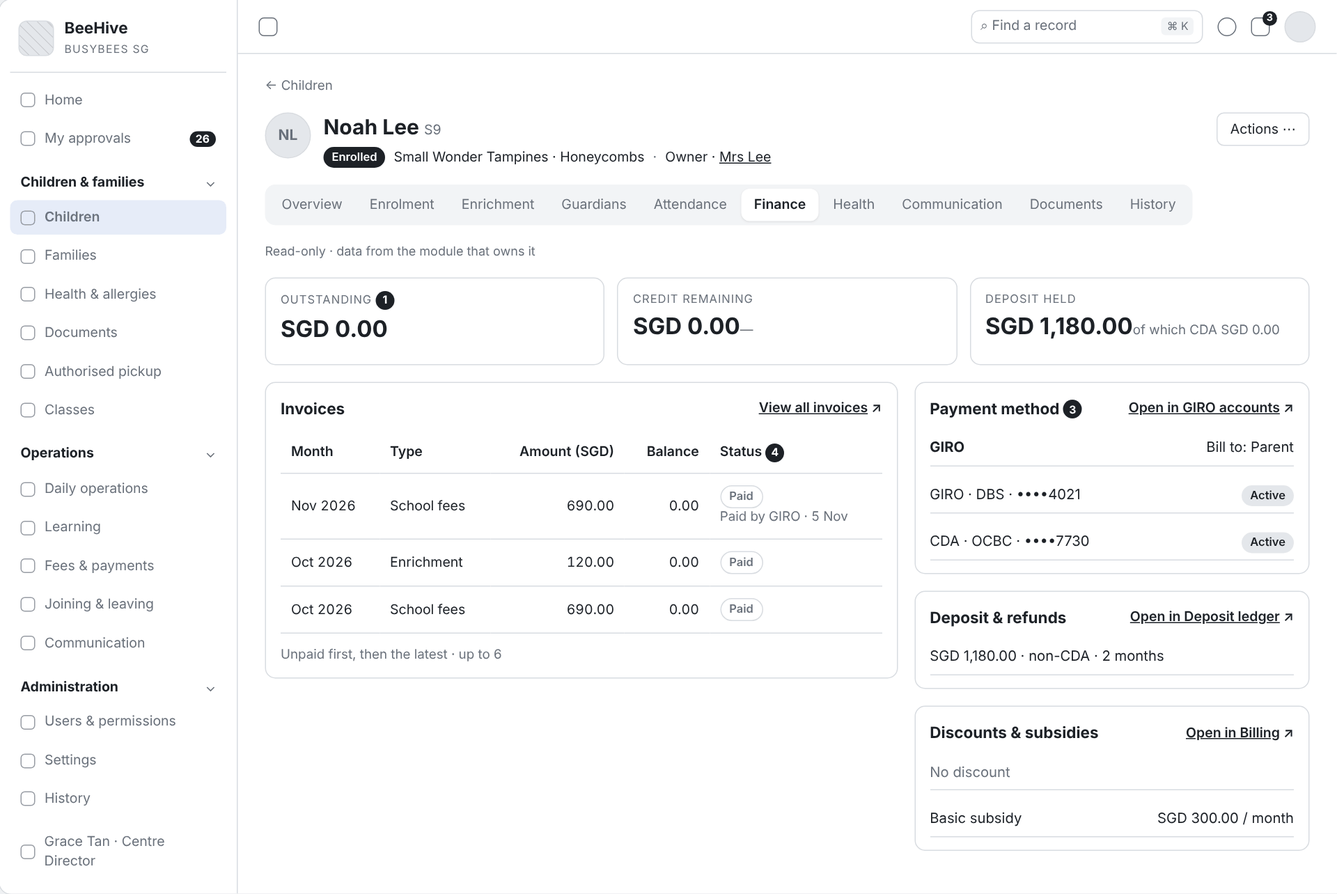
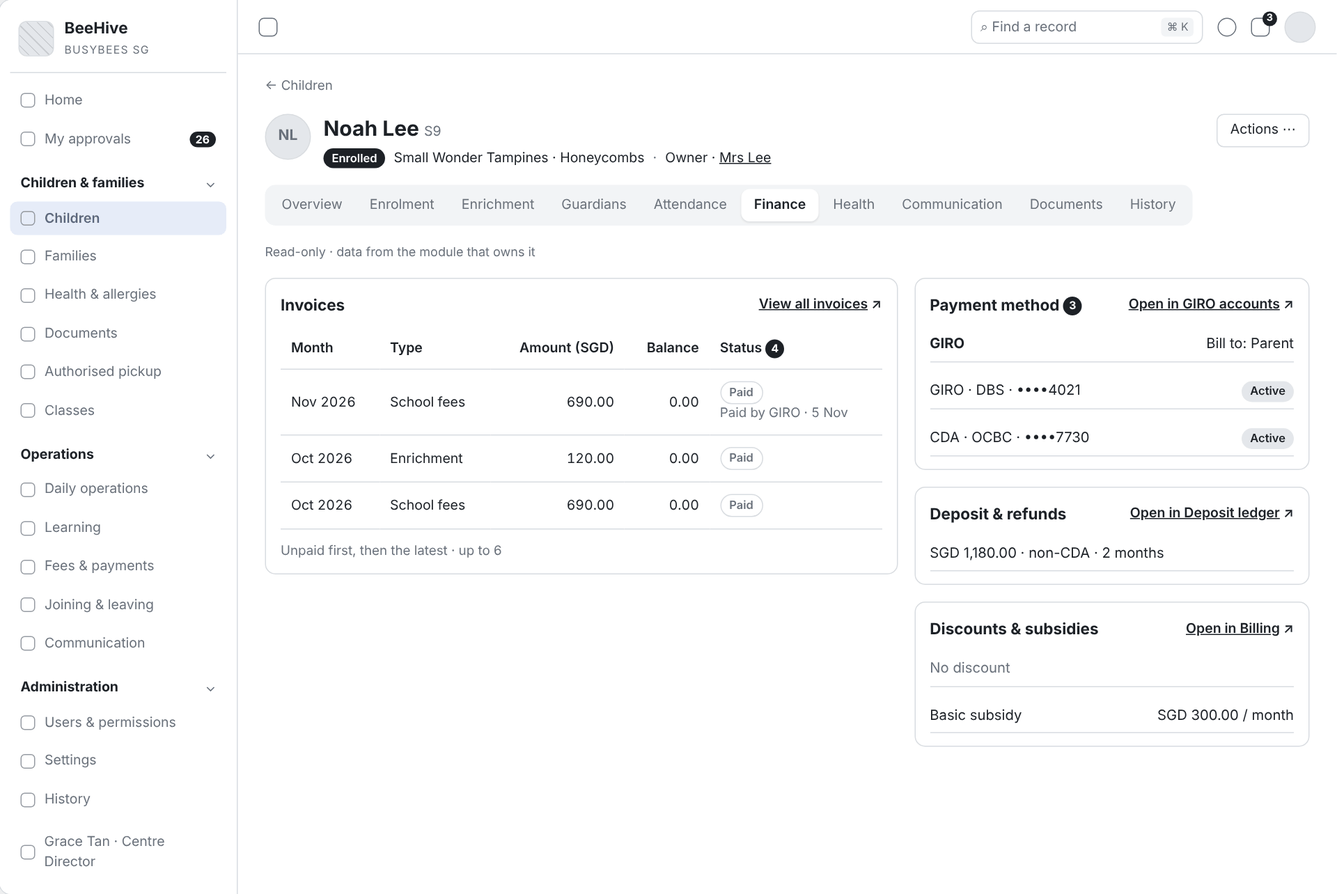
docs(bba): backlog BL-FIN-01/02 (summary, needs attention) for tab Finance; draft US-004 v0.3 without them
Claude-Session: https://claude.ai/code/session_01FUUTUG18Pmoj9k7Yu1zC77

diff --git a/projects/bba/Diagram/Wireframe/_finance-draft-sprint4.template.html b/projects/bba/Diagram/Wireframe/_finance-draft-sprint4.template.html
@@ -287,13 +287,13 @@ function finDraft(state) {
       (cda ? line("Refund SGD 500.00 · to <b>CDA</b> <span class=\"anno\">6</span>", '<span class="badge">Pending approval</span>') : ""), "Open in Deposit ledger", "");
   const disc = my ? card("Discounts", muted("No discount."), "", "")
     : card("Discounts & subsidies", (ok || cda ? line(muted("No discount"), "") : line("Staff child discount · 50%", "until —")) + line("Basic subsidy", `${cur} 300.00 / month`), "Open in Billing", "");
-  return header("Finance", c) + summary + att + `<div class="split" style="grid-template-columns:minmax(0,1.6fr) minmax(0,1fr);gap:16px;align-items:start"><div style="display:grid;gap:16px">${invoices}</div><div style="display:grid;gap:16px">${pay}${dep}${disc}</div></div>`;
+  return header("Finance", c) + `<div class="split" style="grid-template-columns:minmax(0,1.6fr) minmax(0,1fr);gap:16px;align-items:start"><div style="display:grid;gap:16px">${invoices}</div><div style="display:grid;gap:16px">${pay}${dep}${disc}</div></div>`;
 }
 
 const SCREENS = [
   { id: "scr-04", code: "SCR-04", name: "Tab Finance", slug: "tab-finance-draft", tickets: "US-004 (bản nháp 0.2) — tổng quan tài chính của một trẻ, chỉ đọc",
-    states: [["default", "Có việc cần chú ý", () => finDraft("default")], ["all-good", "Không có việc cần chú ý", () => finDraft("all-good")], ["cda-refund", "Hoàn cọc CDA", () => finDraft("cda-refund")], ["malaysia", "Malaysia", () => finDraft("malaysia")]],
-    notes: [["3 số tóm tắt: còn nợ (không tính Draft), credit còn lại và cọc đang giữ tách phần CDA.", "FR-023 · BR-FIN-TAB-002"], ["Cần chú ý: chỉ hiện khi có việc; mỗi việc một dòng kèm liên kết sang Billing.", "FR-024"], ["Payment method: một dòng mỗi tài khoản, chỉ 4 số cuối; không có DDA hay nút sửa.", "FR-025 · BR-FIN-TAB-004 đến 006"], ["Tối đa 6 hoá đơn: chưa trả trước, rồi mới nhất; trạng thái kèm GIRO; không mở chi tiết từng dòng.", "FR-026 · BR-FIN-TAB-007"], ["Một dòng giải thích vì sao hoá đơn tháng này khác tháng trước.", "FR-027 · BR-FIN-TAB-012"], ["Hoàn tiền chỉ hiện khi đang xử lý hoặc thất bại; tiền CDA hoàn về CDA.", "FR-028 · BR-FIN-TAB-011"]] }
+    states: [["default", "Singapore · còn nợ, GIRO thất bại", () => finDraft("default")], ["all-good", "Singapore · đã trả hết", () => finDraft("all-good")], ["cda-refund", "Hoàn cọc CDA", () => finDraft("cda-refund")], ["malaysia", "Malaysia", () => finDraft("malaysia")]],
+    notes: [["(Tóm tắt — backlog BL-FIN-01)", "—"], ["(Cần chú ý — backlog BL-FIN-02)", "—"], ["Payment method: một dòng mỗi tài khoản, chỉ 4 số cuối; không có DDA hay nút sửa.", "FR-025 · BR-FIN-TAB-004 đến 006"], ["Tối đa 6 hoá đơn: chưa trả trước, rồi mới nhất; trạng thái kèm GIRO; không mở chi tiết từng dòng.", "FR-026 · BR-FIN-TAB-007"], ["Một dòng giải thích vì sao hoá đơn tháng này khác tháng trước.", "FR-027 · BR-FIN-TAB-012"], ["Hoàn tiền chỉ hiện khi đang xử lý hoặc thất bại; tiền CDA hoàn về CDA.", "FR-028 · BR-FIN-TAB-011"]] }
 ];
 
 let current = { screen: "scr-04", state: "default" };

diff --git a/projects/bba/Diagram/Wireframe/finance-draft-sprint4.html b/projects/bba/Diagram/Wireframe/finance-draft-sprint4.html
@@ -287,13 +287,13 @@ function finDraft(state) {
       (cda ? line("Refund SGD 500.00 · to <b>CDA</b> <span class=\"anno\">6</span>", '<span class="badge">Pending approval</span>') : ""), "Open in Deposit ledger", "");
   const disc = my ? card("Discounts", muted("No discount."), "", "")
     : card("Discounts & subsidies", (ok || cda ? line(muted("No discount"), "") : line("Staff child discount · 50%", "until —")) + line("Basic subsidy", `${cur} 300.00 / month`), "Open in Billing", "");
-  return header("Finance", c) + summary + att + `<div class="split" style="grid-template-columns:minmax(0,1.6fr) minmax(0,1fr);gap:16px;align-items:start"><div style="display:grid;gap:16px">${invoices}</div><div style="display:grid;gap:16px">${pay}${dep}${disc}</div></div>`;
+  return header("Finance", c) + `<div class="split" style="grid-template-columns:minmax(0,1.6fr) minmax(0,1fr);gap:16px;align-items:start"><div style="display:grid;gap:16px">${invoices}</div><div style="display:grid;gap:16px">${pay}${dep}${disc}</div></div>`;
 }
 
 const SCREENS = [
   { id: "scr-04", code: "SCR-04", name: "Tab Finance", slug: "tab-finance-draft", tickets: "US-004 (bản nháp 0.2) — tổng quan tài chính của một trẻ, chỉ đọc",
-    states: [["default", "Có việc cần chú ý", () => finDraft("default")], ["all-good", "Không có việc cần chú ý", () => finDraft("all-good")], ["cda-refund", "Hoàn cọc CDA", () => finDraft("cda-refund")], ["malaysia", "Malaysia", () => finDraft("malaysia")]],
-    notes: [["3 số tóm tắt: còn nợ (không tính Draft), credit còn lại và cọc đang giữ tách phần CDA.", "FR-023 · BR-FIN-TAB-002"], ["Cần chú ý: chỉ hiện khi có việc; mỗi việc một dòng kèm liên kết sang Billing.", "FR-024"], ["Payment method: một dòng mỗi tài khoản, chỉ 4 số cuối; không có DDA hay nút sửa.", "FR-025 · BR-FIN-TAB-004 đến 006"], ["Tối đa 6 hoá đơn: chưa trả trước, rồi mới nhất; trạng thái kèm GIRO; không mở chi tiết từng dòng.", "FR-026 · BR-FIN-TAB-007"], ["Một dòng giải thích vì sao hoá đơn tháng này khác tháng trước.", "FR-027 · BR-FIN-TAB-012"], ["Hoàn tiền chỉ hiện khi đang xử lý hoặc thất bại; tiền CDA hoàn về CDA.", "FR-028 · BR-FIN-TAB-011"]] }
+    states: [["default", "Singapore · còn nợ, GIRO thất bại", () => finDraft("default")], ["all-good", "Singapore · đã trả hết", () => finDraft("all-good")], ["cda-refund", "Hoàn cọc CDA", () => finDraft("cda-refund")], ["malaysia", "Malaysia", () => finDraft("malaysia")]],
+    notes: [["(Tóm tắt — backlog BL-FIN-01)", "—"], ["(Cần chú ý — backlog BL-FIN-02)", "—"], ["Payment method: một dòng mỗi tài khoản, chỉ 4 số cuối; không có DDA hay nút sửa.", "FR-025 · BR-FIN-TAB-004 đến 006"], ["Tối đa 6 hoá đơn: chưa trả trước, rồi mới nhất; trạng thái kèm GIRO; không mở chi tiết từng dòng.", "FR-026 · BR-FIN-TAB-007"], ["Một dòng giải thích vì sao hoá đơn tháng này khác tháng trước.", "FR-027 · BR-FIN-TAB-012"], ["Hoàn tiền chỉ hiện khi đang xử lý hoặc thất bại; tiền CDA hoàn về CDA.", "FR-028 · BR-FIN-TAB-011"]] }
 ];
 
 let current = { screen: "scr-04", state: "default" };

diff --git a/projects/bba/Document/FSD/Sprint 4/BBA-67_US-004_Tab_Finance_Draft_VI.md b/projects/bba/Document/FSD/Sprint 4/BBA-67_US-004_Tab_Finance_Draft_VI.md
@@ -9,7 +9,7 @@
 | Mã WBS | 3.1.1.02 |
 | Mã tài liệu | FRD-3.1_Child_Record_Read_Tabs — bản nháp US-004 |
 | Sprint | 4 |
-| Phiên bản | 0.2 (nháp) |
+| Phiên bản | 0.3 (nháp) |
 | Trạng thái | BẢN NHÁP ĐỂ RÀ SOÁT |
 | Ngày | 11/11/2026 |
 | Người soạn | Business Analysis |
@@ -21,35 +21,23 @@
 | Phiên bản | Ngày | Tác giả | Tóm tắt thay đổi | Duyệt |
 |---|---|---|---|---|
 | 0.1 (nháp) | 11/11/2026 | Business Analysis | Bản nháp đầu theo SRS Fees & Payments, Children & Families, Parents App: 9 khối chi tiết. | HaiNguyen |
-| 0.2 (nháp) | 11/11/2026 | Business Analysis | Thu gọn thành màn tổng quan: 3 số tóm tắt, mục "Cần chú ý", payment method một dòng mỗi tài khoản, tối đa 6 hoá đơn gần nhất, cọc và hoàn tiền đang xử lý, giảm giá và trợ cấp. Bỏ khỏi tab: chi tiết từng dòng hoá đơn, bảng biên lai, bảng credit note, sổ biến động cọc, DDA reference, cách đăng ký GIRO — xem ở Billing qua liên kết. | HaiNguyen |
+| 0.2 (nháp) | 11/11/2026 | Business Analysis | Thu gọn thành màn tổng quan. | HaiNguyen |
+| 0.3 (nháp) | 11/11/2026 | Business Analysis | Tách khối Tóm tắt và khối Cần chú ý sang backlog (BL-FIN-01, BL-FIN-02), làm sau. Tab còn 4 khối: Invoices, Payment method, Deposit & refunds, Discounts & subsidies. | HaiNguyen |
 
-**Mức sẵn sàng:** Đã đặc tả màn tổng quan 6 khối, quyền xem theo vai trò, 15 quy tắc, 15 tiêu chí nghiệm thu. 7 điểm chưa chốt ghi thành giả định và câu hỏi ở mục 6.
+**Mức sẵn sàng:** Đã đặc tả màn tổng quan 4 khối, quyền xem theo vai trò, 11 quy tắc, 12 tiêu chí nghiệm thu. 7 điểm chưa chốt ghi thành giả định và câu hỏi ở mục 6.
 
 ## 2. Mục đích và phạm vi
 
 | Điểm chính | Căn cứ |
 |---|---|
-| Tab Finance là **bảng tổng quan** tài chính của một trẻ: nhìn vào là biết trẻ còn nợ bao nhiêu, có gì cần chú ý, trả bằng gì. Không phải nơi xem sổ sách chi tiết. | Định hướng của BA phụ trách |
-| Trả lời nhanh 4 câu phụ huynh hay hỏi: "con còn nợ bao nhiêu", "sao tháng này hoá đơn cao", "tiền cọc còn bao nhiêu", "sao chưa trừ GIRO". | Định hướng của BA phụ trách |
-| Chi tiết (từng dòng hoá đơn, biên lai, credit note, sổ cọc, tài khoản GIRO đầy đủ) xem ở màn Billing của Fees & Payments; mỗi khối có liên kết "Open in Billing". | SRS Fees & Payments §4 mục 3.2, 3.4, 4.1, 4.6, 5.1, 5.2 (tr.7–10) |
+| Tab Finance là **bảng tổng quan** tài chính của một trẻ, khác các màn Billing (xem theo Centre, tháng, đợt). Nhìn vào là biết hoá đơn gần đây, trẻ trả bằng gì, cọc còn bao nhiêu, đang được giảm giá và trợ cấp gì. | SRS Fees & Payments §4 mục 3.1, 3.2 (tr.7); định hướng của BA phụ trách |
+| Giúp Centre trả lời nhanh phụ huynh: "sao tháng này hoá đơn cao", "tiền cọc còn bao nhiêu", "sao chưa trừ GIRO". | Định hướng của BA phụ trách |
+| Chi tiết (từng dòng hoá đơn, biên lai, credit note, sổ cọc, tài khoản GIRO đầy đủ) xem ở màn Billing của Fees & Payments; mỗi khối có liên kết sang màn tương ứng. | SRS Fees & Payments §4 mục 3.2, 4.1, 5.1, 5.2 (tr.7–10) |
 | Tab **chỉ đọc**. Tạo, sửa hoá đơn, credit note, hoàn tiền, tài khoản GIRO làm hoặc duyệt trong Billing bởi Finance. | BR-FEE-007, 008 (tr.12); BR-FEE-027, 041 (tr.13–14) |
-| Các con số dùng cùng cách tính với Parents App (số còn nợ, credit còn lại tách CDA, trạng thái GIRO) để Centre trả lời khớp với những gì phụ huynh thấy. | SRS Parents App §4 mục 7.1, 7.4 (tr.13–14) |
 
-**Ngoài phạm vi tab:** chi tiết từng dòng hoá đơn, danh sách biên lai, danh sách credit note, sổ biến động cọc, DDA reference và cách đăng ký GIRO, lịch sử nhắc nợ đầy đủ, tải hoặc in PDF, mọi thao tác.
+**Ngoài phạm vi tab:** khối Tóm tắt và khối Cần chú ý (backlog BL-FIN-01, BL-FIN-02); chi tiết từng dòng hoá đơn; danh sách biên lai; danh sách credit note; sổ biến động cọc; DDA reference và cách đăng ký GIRO; tải hoặc in PDF; mọi thao tác.
 
-## 3. Những gì thay đổi so với bản nháp 0.1
-
-| Khối | Bản nháp 0.1 | Bản nháp 0.2 (tổng quan) |
-|---|---|---|
-| Tóm tắt | 3 số. | Giữ 3 số. |
-| Cần chú ý | Không có. | Thêm: chỉ hiện khi có việc — hoá đơn quá hạn, GIRO trừ thất bại, tài khoản GIRO bị từ chối, hoàn tiền thất bại, nguy cơ mất trợ cấp, chênh lệch GSII chưa xử lý. |
-| Payment method | Bảng tài khoản 6 cột. | Một dòng mỗi tài khoản: loại, ngân hàng, 4 số cuối, trạng thái (lý do nếu Rejected). |
-| Hoá đơn | Mọi hoá đơn, 10 trường, mở rộng xem từng dòng. | Tối đa 6 hoá đơn: các hoá đơn chưa trả hết và hoá đơn mới nhất; 5 trường; một dòng "What changed from last month" dưới hoá đơn tháng mới nhất. Không mở rộng chi tiết. |
-| Biên lai, credit note | Hai bảng riêng. | Bỏ khỏi tab; credit còn lại nằm ở tóm tắt; xem chi tiết ở Billing. |
-| Cọc, hoàn tiền | Sổ biến động cọc; bảng hoàn tiền. | Một dòng cọc (số tiền, nguồn, số tháng); hoàn tiền chỉ hiện khi đang xử lý hoặc thất bại. |
-| Giảm giá, trợ cấp | Bảng, cảnh báo, GSII. | Một dòng mỗi khoản; cảnh báo trợ cấp và GSII chuyển lên "Cần chú ý". |
-
-## 4. Quyền xem theo vai trò
+## 3. Quyền xem theo vai trò
 
 | Vai trò | Thấy tab Finance | Phạm vi | Căn cứ |
 |---|---|---|---|
@@ -60,39 +48,37 @@
 | Enrichment Trainer | Không | — | FRD v0.6 mục 4 |
 | Parent | Không dùng tab này; xem trong Parents App | — | SRS Parents App §4 mục 7 |
 
-## 5. Yêu cầu chức năng
+## 4. Yêu cầu chức năng
 
-### 5.1 US-004 - Tab Finance: tổng quan tài chính của trẻ
+### 4.1 US-004 - Tab Finance: tổng quan tài chính của trẻ
 
 #### User Story
 
-Là Centre Director hoặc School Admin, tôi muốn nhìn vào hồ sơ trẻ là biết trẻ còn nợ bao nhiêu, có việc gì cần chú ý (quá hạn, GIRO thất bại, nguy cơ mất trợ cấp), trẻ trả bằng gì và cọc còn bao nhiêu, để trả lời phụ huynh ngay mà không phải vào Billing.
+Là Centre Director hoặc School Admin, tôi muốn nhìn vào hồ sơ trẻ là thấy các hoá đơn gần đây và trạng thái GIRO, trẻ trả bằng gì, cọc còn bao nhiêu, đang được giảm giá và trợ cấp gì, để trả lời phụ huynh ngay mà không phải vào Billing.
 
 #### Functional Requirements (Yêu cầu chức năng)
 
 | FR ID | Yêu cầu chức năng |
 |---|---|
-| FR-022 | Tab Finance là màn tổng quan, chỉ hiển thị; không có thao tác. Mỗi khối có liên kết "Open in Billing" mở màn tương ứng của Fees & Payments đã lọc theo trẻ (Invoices, GIRO accounts, Deposit ledger, Refunds, Discounts, GSII) (AS-FIN-06). |
-| FR-023 | Khối **Tóm tắt** gồm 3 số: Outstanding (tổng số dư các hoá đơn Billed chưa trả hết), Credit remaining (credit chưa dùng, ghi riêng phần CDA), Deposit held (cọc đang giữ, ghi riêng phần CDA). |
-| FR-024 | Khối **Cần chú ý** chỉ hiện khi có ít nhất một việc; mỗi việc một dòng ngắn kèm liên kết sang màn Billing: hoá đơn quá hạn (số hoá đơn, số ngày quá hạn, số tiền, các ngày đã nhắc); GIRO trừ thất bại (hoá đơn, ngày, lý do ngân hàng); tài khoản GIRO bị Rejected (lý do); hoàn tiền Unsuccessful (lý do); trẻ Singapore đã qua ngày kiểm tra (mặc định ngày 18) mà chưa có ngày đi học nào trong tháng; chênh lệch GSII chưa xử lý. |
+| FR-022 | Tab Finance là màn tổng quan, chỉ hiển thị; không có thao tác. Mỗi khối có liên kết mở màn tương ứng của Fees & Payments đã lọc theo trẻ: "View all invoices" (Invoices), "Open in GIRO accounts", "Open in Deposit ledger", "Open in Billing" (Discounts) (AS-FIN-06). |
+| FR-023 | Khối **Invoices** hiện tối đa 6 hoá đơn: mọi hoá đơn chưa trả hết, rồi các hoá đơn mới nhất cho đủ 6 (AS-FIN-07). Mỗi dòng: tháng, loại (School fees / Enrichment / Registration / Ad hoc), số tiền, số dư, trạng thái ("Due 5 Nov", "Overdue · 34 days", "Paid", "Draft"), trạng thái GIRO nếu có ("GIRO deduction scheduled · 5 Nov", "Being collected by GIRO", "GIRO deduction failed"), nhãn CDA nếu là hoá đơn CDA. Tab không mở chi tiết từng dòng hoá đơn. |
+| FR-024 | Dưới danh sách hoá đơn có một dòng "What changed from last month" cho hoá đơn học phí tháng mới nhất, lấy từ change report của đợt tính phí (ví dụ "Additional subsidy ended 30 Sep"); không có thay đổi thì không hiện dòng này. |
 | FR-025 | Khối **Payment method**: phương thức của trẻ (GIRO, GIRO CDA hoặc PayNow), Bill to (Parent / tên công ty), mỗi tài khoản GIRO một dòng: loại (GIRO / CDA), ngân hàng, số tài khoản che chỉ còn 4 số cuối, trạng thái (Pending with bank / Active / Rejected kèm lý do). |
-| FR-026 | Khối **Invoices** hiện tối đa 6 hoá đơn: mọi hoá đơn chưa trả hết, rồi các hoá đơn mới nhất cho đủ 6 (AS-FIN-07). Mỗi dòng: tháng, loại (School fees / Enrichment / Registration / Ad hoc), số tiền, số dư, trạng thái ("Due 5 Nov", "Overdue · 34 days", "Paid", "Draft"), trạng thái GIRO nếu có ("GIRO deduction scheduled · 5 Nov", "Being collected by GIRO", "GIRO deduction failed"), nhãn CDA nếu là hoá đơn CDA. Liên kết "View all invoices" mở Fees & Payments › Invoices. Tab không mở chi tiết từng dòng hoá đơn. |
-| FR-027 | Dưới hoá đơn học phí tháng mới nhất có một dòng "What changed from last month" lấy từ change report của đợt tính phí (ví dụ "Additional subsidy ended 30 Sep"); không có thay đổi thì không hiện dòng này. |
-| FR-028 | Khối **Deposit & refunds**: một dòng cọc (số tiền đang giữ, nguồn CDA / non-CDA, số tháng cọc, ghi "+1 month, not on GIRO" khi trẻ không trả bằng GIRO); hoàn tiền chỉ hiện khi chưa xong (Pending approval, Approved, Processing) hoặc thất bại: số tiền, trạng thái, nơi nhận (CDA / PayNow). |
-| FR-029 | Khối **Discounts & subsidies**: mỗi giảm giá đang áp một dòng (tên, giá trị, đến ngày); trợ cấp Basic / Additional một dòng (số tiền mỗi tháng). |
-| FR-030 | Trẻ ở Centre Singapore chỉ thấy SGD và phương thức của Singapore; trẻ ở Centre Malaysia chỉ thấy MYR và phương thức của Malaysia, không có tài khoản GIRO / CDA, trợ cấp ECDA, GSII. |
+| FR-026 | Khối **Deposit & refunds**: một dòng cọc (số tiền đang giữ, nguồn CDA / non-CDA, số tháng cọc, ghi "+1 month, not on GIRO" khi trẻ không trả bằng GIRO); hoàn tiền chỉ hiện khi chưa xong (Pending approval, Approved, Processing) hoặc thất bại (Unsuccessful, Void kèm lý do): số tiền, trạng thái, nơi nhận (CDA / PayNow). |
+| FR-027 | Khối **Discounts & subsidies**: mỗi giảm giá đang áp một dòng (tên, giá trị, đến ngày); trợ cấp Basic / Additional một dòng (số tiền mỗi tháng). |
+| FR-028 | Trẻ ở Centre Singapore chỉ thấy SGD và phương thức của Singapore; trẻ ở Centre Malaysia chỉ thấy MYR và phương thức của Malaysia, không có tài khoản GIRO / CDA, trợ cấp ECDA. |
 
 #### Functional Flow - Main (Luồng chính)
 
-1. Người dùng mở tab Finance; hệ thống hiển thị Tóm tắt, Cần chú ý (nếu có), Payment method, Invoices, Deposit & refunds, Discounts & subsidies (FR-023 đến FR-029).
-2. Người dùng đọc số còn nợ và việc cần chú ý để trả lời phụ huynh (FR-023, FR-024).
-3. Cần xem chi tiết hoặc thao tác: người dùng chọn "Open in Billing" hoặc "View all invoices" (FR-022, FR-026).
+1. Người dùng mở tab Finance; hệ thống hiển thị Invoices, Payment method, Deposit & refunds, Discounts & subsidies (FR-023 đến FR-027).
+2. Người dùng đọc trạng thái hoá đơn, trạng thái GIRO và dòng "What changed from last month" để trả lời phụ huynh (FR-023, FR-024).
+3. Cần xem chi tiết hoặc thao tác: người dùng chọn liên kết của khối để sang màn Fees & Payments (FR-022).
 
 #### Functional Flow - Alternative (Luồng thay thế)
 
-1. Không có việc cần chú ý: không hiện khối Cần chú ý (FR-024).
-2. Hoá đơn tháng mới nhất khác tháng trước: hiện dòng "What changed from last month" (FR-027).
-3. Trẻ ở Centre Malaysia: không có tài khoản GIRO / CDA, trợ cấp ECDA, GSII (FR-030; VAL-003).
+1. Hoá đơn tháng mới nhất không khác tháng trước: không hiện dòng "What changed from last month" (FR-024).
+2. Không có hoàn tiền đang xử lý hay thất bại: khối Deposit & refunds chỉ có dòng cọc (FR-026).
+3. Trẻ ở Centre Malaysia: không có tài khoản GIRO / CDA, trợ cấp ECDA (FR-028; VAL-003).
 
 #### Functional Flow - Exception (Luồng ngoại lệ)
 
@@ -103,26 +89,22 @@ Là Centre Director hoặc School Admin, tôi muốn nhìn vào hồ sơ trẻ l
 | BR ID | Quy tắc |
 |---|---|
 | BR-FIN-TAB-001 | Tab chỉ đọc. Tạo, sửa hoá đơn, credit note, hoàn tiền, tài khoản GIRO làm hoặc duyệt trong Billing bởi Finance (BR-FEE-007, 008, 027, 041). |
-| BR-FIN-TAB-002 | Outstanding = tổng số dư các hoá đơn Billed chưa trả hết (Billed, Partially paid, Overdue); không tính Draft và Void (BR-FEE-006; SRS Parents App §4 mục 7.1). |
-| BR-FIN-TAB-003 | Overdue tính từ ngày đến hạn (mặc định ngày 5 của tháng hoá đơn) và thanh toán, không đặt tay (BR-FEE-003, 006). |
-| BR-FIN-TAB-004 | Payment method thuộc hồ sơ trẻ: GIRO, GIRO CDA hoặc PayNow; ngoài ra trả tay bằng bank transfer, AXS, cheque. Mỗi hoá đơn mang theo phương thức để Finance lọc (thông tin BBA đã chốt; BR-FEE-037). |
-| BR-FIN-TAB-005 | Một trẻ có tối đa 2 tài khoản GIRO: CDA và non-CDA; CDA và non-CDA xuất hoá đơn riêng (thông tin BBA đã chốt; BR-FEE-030 — chờ Q-FIN-01). |
-| BR-FIN-TAB-006 | Số tài khoản ngân hàng luôn che, chỉ hiện 4 số cuối (SRS Fees & Payments §4 mục 4.1 Mask account number). |
-| BR-FIN-TAB-007 | Hoá đơn trong đợt 1ST DD chưa có kết quả hiện "Being collected by GIRO"; GIRO thất bại giữ hoá đơn chưa trả và có lý do của ngân hàng (BR-FEE-033, 034). |
-| BR-FIN-TAB-008 | Phụ huynh có hoá đơn Billed chưa trả được nhắc trong app ngày 15 và 25, tối đa 2 lần mỗi kỳ (BR-FEE-004). |
-| BR-FIN-TAB-009 | Học phí và enrichment là hai hoá đơn riêng (BR-FEE-011). |
-| BR-FIN-TAB-010 | Nguồn của mọi khoản cọc (CDA / non-CDA) được ghi. Trẻ không trả bằng GIRO cọc thêm 1 tháng; số tháng cọc cài theo brand và Centre (BR-FEE-021, 022). |
-| BR-FIN-TAB-011 | Tiền trả từ CDA chỉ hoàn về CDA; hoàn tiền thất bại tự void và chờ phụ huynh cập nhật tài khoản (BR-FEE-042, 044). |
-| BR-FIN-TAB-012 | Giảm giá hết hạn được gỡ tự động ở đợt tính phí sau và ghi trong change report (BR-FEE-018; SRS Fees & Payments §4 mục 3.1 View change report). |
-| BR-FIN-TAB-013 | Trẻ Singapore cần ít nhất 1 ngày đi học trong tháng để giữ trợ cấp; ngày kiểm tra mặc định là ngày 18 (BR-OPS-025). |
-| BR-FIN-TAB-014 | Chênh lệch GSII không bao giờ tự áp; Centre quyết định ở màn GSII (BR-FEE-048, 049). |
-| BR-FIN-TAB-015 | Centre Singapore không hiện phương thức hay tiền tệ của Malaysia, và ngược lại (BR-FEE-038; chiều Malaysia theo thông tin BBA). |
+| BR-FIN-TAB-002 | Partially paid và Overdue tính từ thanh toán và ngày đến hạn (mặc định ngày 5 của tháng hoá đơn), không đặt tay (BR-FEE-003, 006). |
+| BR-FIN-TAB-003 | Payment method thuộc hồ sơ trẻ: GIRO, GIRO CDA hoặc PayNow; ngoài ra trả tay bằng bank transfer, AXS, cheque. Mỗi hoá đơn mang theo phương thức để Finance lọc (thông tin BBA đã chốt; BR-FEE-037). |
+| BR-FIN-TAB-004 | Một trẻ có tối đa 2 tài khoản GIRO: CDA và non-CDA; CDA và non-CDA xuất hoá đơn riêng (thông tin BBA đã chốt; BR-FEE-030 — chờ Q-FIN-01). |
+| BR-FIN-TAB-005 | Số tài khoản ngân hàng luôn che, chỉ hiện 4 số cuối (SRS Fees & Payments §4 mục 4.1 Mask account number). |
+| BR-FIN-TAB-006 | Hoá đơn trong đợt 1ST DD chưa có kết quả hiện "Being collected by GIRO"; GIRO thất bại giữ hoá đơn chưa trả (BR-FEE-033, 034). |
+| BR-FIN-TAB-007 | Học phí và enrichment là hai hoá đơn riêng (BR-FEE-011). |
+| BR-FIN-TAB-008 | Nguồn của mọi khoản cọc (CDA / non-CDA) được ghi. Trẻ không trả bằng GIRO cọc thêm 1 tháng; số tháng cọc cài theo brand và Centre (BR-FEE-021, 022). |
+| BR-FIN-TAB-009 | Tiền trả từ CDA chỉ hoàn về CDA; hoàn tiền thất bại tự void và chờ phụ huynh cập nhật tài khoản (BR-FEE-042, 044). |
+| BR-FIN-TAB-010 | Giảm giá hết hạn được gỡ tự động ở đợt tính phí sau và ghi trong change report (BR-FEE-018; SRS Fees & Payments §4 mục 3.1 View change report). |
+| BR-FIN-TAB-011 | Centre Singapore không hiện phương thức hay tiền tệ của Malaysia, và ngược lại (BR-FEE-038; chiều Malaysia theo thông tin BBA). |
 
 #### Validation Rules (Quy tắc kiểm tra)
 
 | VAL ID | Điều kiện | Phản hồi của hệ thống |
 |---|---|---|
-| VAL-003 | Trẻ thuộc Centre Malaysia. | Không hiển thị tài khoản GIRO / CDA, trợ cấp ECDA, GSII; tiền tệ MYR. |
+| VAL-003 | Trẻ thuộc Centre Malaysia. | Không hiển thị tài khoản GIRO / CDA, trợ cấp ECDA; tiền tệ MYR. |
 | VAL-004 | Vai trò không được xem tab Finance. | Không hiển thị tab Finance. |
 
 #### UI Reference (Tham chiếu giao diện)
@@ -135,35 +117,24 @@ Là Centre Director hoặc School Admin, tôi muốn nhìn vào hồ sơ trẻ l
 
 | Trường / Điều khiển | Loại | Bắt buộc | Mặc định / Trạng thái | Kiểm tra | Hành vi |
 |---|---|---|---|---|---|
-| Tóm tắt | 3 ô số | Có | — | — | FR-023. |
-| Cần chú ý | Danh sách cảnh báo | Khi có việc | Ẩn khi không có | — | FR-024; mỗi dòng là liên kết. |
+| Invoices | Danh sách gọn | Có | Tối đa 6 dòng; chưa trả trước | — | FR-023; FR-024; "View all invoices". |
 | Payment method | Khối gọn | Có | — | VAL-003. | FR-025. |
-| Invoices | Danh sách gọn | Có | Tối đa 6 dòng | — | FR-026; FR-027; "View all invoices". |
-| Deposit & refunds | Khối gọn | Có | — | — | FR-028. |
-| Discounts & subsidies | Khối gọn | Có | — | VAL-003. | FR-029. |
+| Deposit & refunds | Khối gọn | Có | — | — | FR-026. |
+| Discounts & subsidies | Khối gọn | Có | — | VAL-003. | FR-027. |
 
 **Đặc tả trường theo khối**
 
 | Khối | Tên trường | Kiểu hiển thị | Nguồn dữ liệu | Quy tắc / ghi chú |
 |---|---|---|---|---|
-| Tóm tắt | Outstanding | Số tiền | Fees & Payments › Invoices | BR-FIN-TAB-002. |
-| Tóm tắt | Credit remaining | Số tiền + "of which CDA" | Fees & Payments (unused credit) | Như Parents App §4 mục 7.4. |
-| Tóm tắt | Deposit held | Số tiền + "of which CDA" | Fees & Payments › Deposit ledger | — |
-| Cần chú ý | Overdue invoice | Một dòng | Invoices, Outstanding & reminders | "INV-… · 34 days overdue · SGD 57.58 · reminded 15 Oct, 25 Oct" (BR-FIN-TAB-003, 008). |
-| Cần chú ý | GIRO deduction failed | Một dòng | GIRO collection runs | Hoá đơn, ngày, lý do ngân hàng (BR-FIN-TAB-007). |
-| Cần chú ý | GIRO account rejected | Một dòng | GIRO accounts | Loại tài khoản, lý do. |
-| Cần chú ý | Refund unsuccessful | Một dòng | Refunds | Số tiền, lý do (BR-FIN-TAB-011). |
-| Cần chú ý | Subsidy at risk | Một dòng | Daily Operations ("No attendance this month") | Chỉ Singapore (BR-FIN-TAB-013). |
-| Cần chú ý | GSII difference | Một dòng | GSII reconciliation | Chỉ chênh lệch chưa có quyết định (BR-FIN-TAB-014). |
-| Payment method | Payment method, Bill to | Text | Hồ sơ trẻ; Corporate accounts | BR-FIN-TAB-004. |
-| Payment method | GIRO account | Một dòng mỗi tài khoản | GIRO accounts | Loại, ngân hàng, "••••4021", trạng thái; Rejected kèm lý do (BR-FIN-TAB-005, 006). |
-| Invoices | Month, Type, Amount, Balance | Text, số tiền | Invoices | BR-FIN-TAB-009. |
-| Invoices | Status | Nhãn | Invoices | Due / Overdue · n days / Paid / Draft (AS-FIN-03). |
-| Invoices | GIRO state | Text nhỏ | GIRO collection runs | BR-FIN-TAB-007. |
-| Invoices | CDA | Nhãn | Invoices | Chỉ hiện với hoá đơn CDA. |
-| Invoices | What changed from last month | Một dòng | Billing run change report | FR-027; BR-FIN-TAB-012. |
-| Deposit & refunds | Deposit | Một dòng | Deposit ledger, fee scheme | Số tiền, nguồn, số tháng (BR-FIN-TAB-010). |
-| Deposit & refunds | Refund in progress | Một dòng | Refunds | Số tiền, trạng thái, nơi nhận (BR-FIN-TAB-011). |
+| Invoices | Month, Type, Amount, Balance | Text, số tiền | Fees & Payments › Invoices | BR-FIN-TAB-007. |
+| Invoices | Status | Nhãn | Invoices | Due / Overdue · n days / Paid / Draft (BR-FIN-TAB-002; AS-FIN-03). |
+| Invoices | GIRO state | Text nhỏ | GIRO collection runs | BR-FIN-TAB-006. |
+| Invoices | CDA | Nhãn | Invoices | Chỉ hiện với hoá đơn CDA (BR-FIN-TAB-004). |
+| Invoices | What changed from last month | Một dòng | Billing run change report | FR-024; BR-FIN-TAB-010. |
+| Payment method | Payment method, Bill to | Text | Hồ sơ trẻ; Corporate accounts | BR-FIN-TAB-003. |
+| Payment method | GIRO account | Một dòng mỗi tài khoản | GIRO accounts | Loại, ngân hàng, "••••4021", trạng thái; Rejected kèm lý do (BR-FIN-TAB-004, 005). |
+| Deposit & refunds | Deposit | Một dòng | Deposit ledger, fee scheme | Số tiền, nguồn, số tháng (BR-FIN-TAB-008). |
+| Deposit & refunds | Refund | Một dòng | Refunds | Chỉ khi chưa xong hoặc thất bại: số tiền, trạng thái, nơi nhận (BR-FIN-TAB-009). |
 | Discounts & subsidies | Discount | Một dòng | Discounts | Tên, giá trị, đến ngày. |
 | Discounts & subsidies | Subsidy | Một dòng | Hồ sơ trẻ, subsidy lines | Basic / Additional, số tiền mỗi tháng; chỉ Singapore. |
 
@@ -171,32 +142,35 @@ Là Centre Director hoặc School Admin, tôi muốn nhìn vào hồ sơ trẻ l
 
 | ID | Yêu cầu |
 |---|---|
-| DATA-004 | Tab đọc payment method từ hồ sơ trẻ; đọc từ Fees & Payments: số dư hoá đơn, credit chưa dùng, cọc đang giữ (tách CDA), tối đa 6 hoá đơn (tháng, loại, số tiền, số dư, trạng thái, trạng thái GIRO, CDA), dòng change report của hoá đơn tháng mới nhất, tài khoản GIRO (loại, ngân hàng, 4 số cuối, trạng thái, lý do), hoàn tiền chưa xong hoặc thất bại, giảm giá đang áp, trợ cấp, chênh lệch GSII chưa xử lý, ngày đã nhắc; từ Daily Operations: danh sách "No attendance this month". Tab không ghi dữ liệu. |
+| DATA-004 | Tab đọc payment method từ hồ sơ trẻ; đọc từ Fees & Payments: tối đa 6 hoá đơn (tháng, loại, số tiền, số dư, trạng thái, trạng thái GIRO, CDA), dòng change report của hoá đơn học phí tháng mới nhất, tài khoản GIRO (loại, ngân hàng, 4 số cuối, trạng thái, lý do), cọc đang giữ (số tiền, nguồn, số tháng), hoàn tiền chưa xong hoặc thất bại, giảm giá đang áp, trợ cấp. Tab không ghi dữ liệu. |
 
 #### Acceptance Criteria (Tiêu chí nghiệm thu)
 
 | AC ID | Given (Cho trước) | When (Khi) | Then (Thì) | Linked Rule |
 |---|---|---|---|---|
-| AC-027 | hôm nay 2026-11-08; Ethan có 3 hoá đơn Billed chưa trả hết: 300.00, 270.00 và 57.58; 1 hoá đơn Draft 460.00 | Centre Director mở tab Finance | Outstanding hiện SGD 627.58; Draft không tính vào | FR-023; BR-FIN-TAB-002 |
-| AC-028 | hoá đơn học phí tháng 10 của Ethan còn 57.58, quá hạn 34 ngày, đã nhắc 15 và 25 Oct | Centre Director mở tab Finance | Cần chú ý có dòng "34 days overdue · SGD 57.58 · reminded 15 Oct, 25 Oct" | FR-024; BR-FIN-TAB-003; BR-FIN-TAB-008 |
-| AC-029 | hoá đơn enrichment tháng 10 trừ GIRO thất bại ngày 12 Oct, lý do "Insufficient funds" | School Admin mở tab Finance | Cần chú ý có dòng "GIRO deduction failed · 12 Oct · Insufficient funds"; dòng hoá đơn ghi "GIRO deduction failed" và vẫn còn số dư | FR-024; FR-026; BR-FIN-TAB-007; BR-FIN-TAB-009 |
-| AC-030 | hoá đơn học phí tháng 11 phần CDA đang trong đợt 1ST DD chưa có kết quả | School Admin mở tab Finance | dòng hoá đơn có nhãn CDA và "Being collected by GIRO" | FR-026; BR-FIN-TAB-005; BR-FIN-TAB-007 |
-| AC-031 | hoá đơn tháng 10 cao hơn tháng 9 vì Additional subsidy hết ngày 30 Sep | School Admin mở tab Finance | dưới hoá đơn tháng 10 có dòng "What changed from last month: Additional subsidy ended 30 Sep"; không có bảng chi tiết từng dòng hoá đơn | FR-027; BR-FIN-TAB-012 |
-| AC-032 | Ethan có 9 hoá đơn, 3 hoá đơn chưa trả hết | School Admin mở tab Finance | khối Invoices hiện 6 dòng: 3 hoá đơn chưa trả hết và 3 hoá đơn mới nhất còn lại; "View all invoices" mở Fees & Payments › Invoices đã lọc theo Ethan | FR-026; FR-022 |
-| AC-033 | Ethan trả bằng GIRO; tài khoản GIRO DBS ••••4021 Active, CDA OCBC ••••7730 Active | School Admin mở tab Finance | Payment method hiện "GIRO", Bill to "Parent" và 2 dòng "GIRO · DBS · ••••4021 · Active", "CDA · OCBC · ••••7730 · Active"; không có DDA reference hay nút sửa | FR-025; BR-FIN-TAB-004; BR-FIN-TAB-006; BR-FIN-TAB-001 |
-| AC-034 | tài khoản CDA của Zoe bị ngân hàng từ chối, lý do "Signature mismatch" | School Admin mở tab Finance | dòng tài khoản hiện "Rejected · Signature mismatch"; Cần chú ý có dòng tương ứng | FR-024; FR-025 |
-| AC-035 | Chloe không trả bằng GIRO, cọc 3 tháng (2 + 1) từ nguồn non-CDA | School Admin mở tab Finance | Deposit hiện số tiền, "non-CDA", "3 months (+1 month, not on GIRO)" | FR-028; BR-FIN-TAB-010 |
-| AC-036 | cọc 500.00 của Mia trả từ CDA, có yêu cầu hoàn tiền đang Pending approval | Centre Director mở tab Finance | Deposit & refunds có dòng "Refund 500.00 · Pending approval · to CDA" | FR-028; BR-FIN-TAB-011 |
-| AC-037 | hoàn tiền PayNow của Lucas thất bại, lý do "Invalid account" | HQ Finance mở tab Finance | Cần chú ý có dòng "Refund unsuccessful · Invalid account" | FR-024; BR-FIN-TAB-011 |
-| AC-038 | ngày 19/10/2026 Ava (công dân Singapore) chưa có ngày đi học nào trong tháng 10 | Centre Director mở tab Finance | Cần chú ý có dòng nguy cơ mất trợ cấp tháng 10 | FR-024; BR-FIN-TAB-013 |
-| AC-039 | đối soát GSII tháng 9 có chênh lệch trợ cấp của Ethan chưa được Centre quyết định | Centre Director mở tab Finance | Cần chú ý có dòng chênh lệch GSII tháng 9; liên kết mở màn GSII | FR-024; FR-022; BR-FIN-TAB-014 |
-| AC-040 | Ethan có Staff child discount 50% đang áp, Basic subsidy SGD 300 mỗi tháng; không có việc cần chú ý khác | School Admin mở tab Finance | Discounts & subsidies hiện "Staff child discount · 50%" và "Basic subsidy · SGD 300.00 / month" | FR-029; DATA-004 |
-| AC-041 | Iman thuộc Centre Malaysia | HQ Finance mở tab Finance | tiền tệ MYR; không có tài khoản GIRO / CDA, trợ cấp ECDA, GSII | FR-030; VAL-003; BR-FIN-TAB-015 |
-| AC-042 | Teacher không được xem tab Finance | Teacher mở hồ sơ Ethan | không có tab Finance | VAL-004 |
+| AC-027 | hôm nay 2026-11-08; hoá đơn học phí tháng 10 của Ethan còn 57.58, hạn 2026-10-05 | Centre Director mở tab Finance | dòng hoá đơn tháng 10 hiện số dư 57.58 và "Overdue · 34 days" | FR-023; BR-FIN-TAB-002 |
+| AC-028 | hoá đơn enrichment tháng 10 trừ GIRO thất bại ngày 12 Oct | School Admin mở tab Finance | dòng hoá đơn loại Enrichment ghi "GIRO deduction failed" và vẫn còn số dư; học phí và enrichment là hai dòng riêng | FR-023; BR-FIN-TAB-006; BR-FIN-TAB-007 |
+| AC-029 | hoá đơn học phí tháng 11 phần CDA đang trong đợt 1ST DD chưa có kết quả | School Admin mở tab Finance | dòng hoá đơn có nhãn CDA và "Being collected by GIRO" | FR-023; BR-FIN-TAB-004; BR-FIN-TAB-006 |
+| AC-030 | hoá đơn tháng 10 cao hơn tháng 9 vì Additional subsidy hết ngày 30 Sep | School Admin mở tab Finance | có dòng "What changed from last month: Additional subsidy ended 30 Sep"; không có bảng chi tiết từng dòng hoá đơn | FR-024; BR-FIN-TAB-010 |
+| AC-031 | Ethan có 9 hoá đơn, 3 hoá đơn chưa trả hết | School Admin mở tab Finance | khối Invoices hiện 6 dòng: 3 hoá đơn chưa trả hết và 3 hoá đơn mới nhất còn lại; "View all invoices" mở Fees & Payments › Invoices đã lọc theo Ethan | FR-023; FR-022 |
+| AC-032 | Ethan trả bằng GIRO; tài khoản GIRO DBS ••••4021 Active, CDA OCBC ••••7730 Active | School Admin mở tab Finance | Payment method hiện "GIRO", Bill to "Parent" và 2 dòng "GIRO · DBS · ••••4021 · Active", "CDA · OCBC · ••••7730 · Active"; không có DDA reference hay nút sửa | FR-025; BR-FIN-TAB-001; BR-FIN-TAB-003; BR-FIN-TAB-005 |
+| AC-033 | tài khoản CDA của Zoe bị ngân hàng từ chối, lý do "Signature mismatch" | School Admin mở tab Finance | dòng tài khoản CDA hiện "Rejected · Signature mismatch" | FR-025 |
+| AC-034 | Chloe không trả bằng GIRO, cọc 3 tháng (2 + 1) từ nguồn non-CDA | School Admin mở tab Finance | Deposit hiện số tiền, "non-CDA", "3 months (+1 month, not on GIRO)" | FR-026; BR-FIN-TAB-008 |
+| AC-035 | cọc 500.00 của Mia trả từ CDA, có yêu cầu hoàn tiền đang Pending approval | Centre Director mở tab Finance | Deposit & refunds có dòng "Refund 500.00 · Pending approval · to CDA" | FR-026; BR-FIN-TAB-009 |
+| AC-036 | Ethan có Staff child discount 50% đang áp, Basic subsidy SGD 300 mỗi tháng | School Admin mở tab Finance | Discounts & subsidies hiện "Staff child discount · 50%" và "Basic subsidy · SGD 300.00 / month" | FR-027; DATA-004 |
+| AC-037 | Iman thuộc Centre Malaysia | HQ Finance mở tab Finance | tiền tệ MYR; không có tài khoản GIRO / CDA, trợ cấp ECDA | FR-028; VAL-003; BR-FIN-TAB-011 |
+| AC-038 | Teacher không được xem tab Finance | Teacher mở hồ sơ Ethan | không có tab Finance | VAL-004 |
 
 #### Dependencies (Phụ thuộc)
 
-Fees & Payments (Invoices, change report, GIRO accounts, GIRO collection runs, Outstanding & reminders, Deposit ledger, Refunds, Discounts, GSII reconciliation); hồ sơ trẻ (payment method); Daily Operations ("No attendance this month"); Roles & permissions.
+Fees & Payments (Invoices, change report, GIRO accounts, GIRO collection runs, Deposit ledger, Refunds, Discounts); hồ sơ trẻ (payment method); Roles & permissions.
+
+## 5. Backlog liên quan
+
+| Mã | Hạng mục | Nơi lưu |
+|---|---|---|
+| BL-FIN-01 | Khối Tóm tắt (Outstanding, Credit remaining, Deposit held) | Document/Backlog/Sprint 4/BBA-67_Finance_Tab_Backlog_VI.md (chỉ trên Git) |
+| BL-FIN-02 | Khối Cần chú ý (quá hạn, GIRO thất bại, tài khoản bị từ chối, hoàn tiền thất bại, nguy cơ mất trợ cấp, chênh lệch GSII) | như trên |
 
 ## 6. Điểm chưa chốt
 
@@ -204,13 +178,13 @@ Fees & Payments (Invoices, change report, GIRO accounts, GIRO collection runs, O
 
 | Mã | Giả định | Dùng ở |
 |---|---|---|
-| AS-FIN-01 | Tài khoản GIRO / CDA thuộc trẻ (theo thông tin BBA), mỗi trẻ tối đa 1 GIRO và 1 CDA. | FR-025; BR-FIN-TAB-005 — chờ Q-FIN-01 |
+| AS-FIN-01 | Tài khoản GIRO / CDA thuộc trẻ (theo thông tin BBA), mỗi trẻ tối đa 1 GIRO và 1 CDA. | FR-025; BR-FIN-TAB-004 — chờ Q-FIN-01 |
 | AS-FIN-02 | Payment method trên tab chỉ hiển thị. | FR-025 — chờ Q-FIN-02 |
-| AS-FIN-03 | Hoá đơn Draft hiển thị với nhãn Draft, không tính vào Outstanding. | FR-026; BR-FIN-TAB-002 — chờ Q-FIN-03 |
-| AS-FIN-04 | Teacher không thấy tab Finance. | Mục 4; VAL-004 — chờ Q-FIN-04 |
-| AS-FIN-05 | Trẻ chuyển Centre: hoá đơn của Centre cũ vẫn tính vào Outstanding và vẫn có trong "View all invoices". | FR-023; FR-026 — chờ Q-FIN-05 |
-| AS-FIN-06 | Tab có liên kết "Open in Billing" theo quyền; không có tải PDF, in, Request correction trên tab. | FR-022 — chờ Q-FIN-06 |
-| AS-FIN-07 | Khối Invoices hiện tối đa 6 dòng (mọi hoá đơn chưa trả hết, rồi hoá đơn mới nhất). | FR-026 — chờ Q-FIN-07 |
+| AS-FIN-03 | Hoá đơn Draft hiển thị với nhãn Draft. | FR-023 — chờ Q-FIN-03 |
+| AS-FIN-04 | Teacher không thấy tab Finance. | Mục 3; VAL-004 — chờ Q-FIN-04 |
+| AS-FIN-05 | Trẻ chuyển Centre: hoá đơn của Centre cũ vẫn có trong khối Invoices và "View all invoices". | FR-023 — chờ Q-FIN-05 |
+| AS-FIN-06 | Tab có liên kết sang Fees & Payments theo quyền; không có tải PDF, in, Request correction trên tab. | FR-022 — chờ Q-FIN-06 |
+| AS-FIN-07 | Khối Invoices hiện tối đa 6 dòng (mọi hoá đơn chưa trả hết, rồi hoá đơn mới nhất). | FR-023 — chờ Q-FIN-07 |
 
 ### Câu hỏi cần làm rõ với BBA
 
@@ -231,15 +205,11 @@ Số trang tính theo bản Word gốc của SRS khi xuất PDF khổ A4.
 | STT | Tài liệu | Mục | Trang | Dùng cho |
 |---|---|---|---|---|
 | 1 | Plane — ticket BBA-67 (WBS 3.1.1.02) | Description: finance (invoices, balances, GIRO), each linking to the module screen | — | Phạm vi US-004. |
-| 2 | BBA-SMS-SRS-Fees-and-Payments-v0.1 | §2 Who uses it | 3 | Mục 4. |
-| 3 | BBA-SMS-SRS-Fees-and-Payments-v0.1 | §3 P2 Monthly billing cycle, P3 GIRO collection | 4 | FR-024, FR-026. |
-| 4 | BBA-SMS-SRS-Fees-and-Payments-v0.1 | §4 mục 3.1 Billing runs (change report), 3.2 Invoices | 7 | FR-026, FR-027. |
-| 5 | BBA-SMS-SRS-Fees-and-Payments-v0.1 | §4 mục 4.1 GIRO accounts, 4.2 GIRO collection runs | 8–9 | FR-025, FR-026. |
-| 6 | BBA-SMS-SRS-Fees-and-Payments-v0.1 | §4 mục 4.7 Outstanding & reminders | 9–10 | FR-024. |
-| 7 | BBA-SMS-SRS-Fees-and-Payments-v0.1 | §4 mục 5.1 Deposit ledger, 5.2 Refunds | 10–11 | FR-028. |
-| 8 | BBA-SMS-SRS-Fees-and-Payments-v0.1 | §4 mục 6.1 GSII reconciliation | 11 | FR-024. |
-| 9 | BBA-SMS-SRS-Fees-and-Payments-v0.1 | §5 BR-FEE-003 đến 011 | 12 | BR-FIN-TAB-001 đến 003, 008, 009. |
-| 10 | BBA-SMS-SRS-Fees-and-Payments-v0.1 | §5 BR-FEE-018 đến 038 | 13 | BR-FIN-TAB-004 đến 007, 010, 012, 015. |
-| 11 | BBA-SMS-SRS-Fees-and-Payments-v0.1 | §5 BR-FEE-041 đến 049 | 14 | BR-FIN-TAB-001, 011, 014. |
-| 12 | BBA-SMS-SRS-Parents-App-v0.1 | §4 mục 7.1 Invoices, 7.4 Credits | 13–14 | FR-023. |
-| 13 | BBA-SMS-SRS-Daily-Operations-v0.1 | §5 BR-OPS-025 | 10 | BR-FIN-TAB-013. |
+| 2 | BBA-SMS-SRS-Fees-and-Payments-v0.1 | §2 Who uses it | 3 | Mục 3. |
+| 3 | BBA-SMS-SRS-Fees-and-Payments-v0.1 | §3 P2 Monthly billing cycle, P3 GIRO collection | 4 | FR-023. |
+| 4 | BBA-SMS-SRS-Fees-and-Payments-v0.1 | §4 mục 3.1 Billing runs (change report), 3.2 Invoices | 7 | FR-023, FR-024. |
+| 5 | BBA-SMS-SRS-Fees-and-Payments-v0.1 | §4 mục 4.1 GIRO accounts, 4.2 GIRO collection runs | 8–9 | FR-023, FR-025. |
+| 6 | BBA-SMS-SRS-Fees-and-Payments-v0.1 | §4 mục 5.1 Deposit ledger, 5.2 Refunds | 10–11 | FR-026. |
+| 7 | BBA-SMS-SRS-Fees-and-Payments-v0.1 | §5 BR-FEE-003 đến 011 | 12 | BR-FIN-TAB-001, 002, 007. |
+| 8 | BBA-SMS-SRS-Fees-and-Payments-v0.1 | §5 BR-FEE-018 đến 038 | 13 | BR-FIN-TAB-003 đến 006, 008, 010, 011. |
+| 9 | BBA-SMS-SRS-Fees-and-Payments-v0.1 | §5 BR-FEE-041 đến 044 | 14 | BR-FIN-TAB-001, 009. |

diff --git a/projects/bba/Document/Backlog/Sprint 4/BBA-67_Finance_Tab_Backlog_VI.md b/projects/bba/Document/Backlog/Sprint 4/BBA-67_Finance_Tab_Backlog_VI.md
@@ -1,0 +1,60 @@
+# Backlog — Tab Finance trên hồ sơ trẻ (BBA-67, US-004)
+
+> Hai khối tách ra khỏi bản nháp US-004 ngày 11/11/2026 để làm sau. Chỉ lưu trên Git, chưa đưa lên Drive, chưa nằm trong FRD.
+> Nguồn: bản nháp `FSD/Sprint 4/BBA-67_US-004_Tab_Finance_Draft_VI.md` v0.2 (commit ae9879e), SRS Fees & Payments v0.1, SRS Parents App v0.1, SRS Daily Operations v0.1.
+
+| Mã | Hạng mục | Trạng thái | Ưu tiên | Ghi chú |
+|---|---|---|---|---|
+| BL-FIN-01 | Khối Tóm tắt (3 số) | Để sau | Chưa xếp | Tách khỏi US-004 v0.3. |
+| BL-FIN-02 | Khối Cần chú ý (Needs attention) | Để sau | Chưa xếp | Tách khỏi US-004 v0.3. |
+
+## BL-FIN-01 — Khối Tóm tắt
+
+**Mô tả:** đầu tab Finance có 3 số: Outstanding (tổng số dư các hoá đơn Billed chưa trả hết), Credit remaining (credit chưa dùng, ghi riêng phần CDA), Deposit held (cọc đang giữ, ghi riêng phần CDA).
+
+**Vì sao cần:** trả lời ngay câu "con còn nợ bao nhiêu", dùng cùng cách tính với Parents App để Centre và phụ huynh thấy cùng một con số.
+
+| Tên trường | Kiểu hiển thị | Nguồn dữ liệu | Quy tắc / ghi chú |
+|---|---|---|---|
+| Outstanding | Số tiền | Fees & Payments › Invoices | Tổng số dư hoá đơn Billed, Partially paid, Overdue; không tính Draft, Void. |
+| Credit remaining | Số tiền + "of which CDA" | Fees & Payments (unused credit) | Như Parents App "View credit remaining". |
+| Deposit held | Số tiền + "of which CDA" | Fees & Payments › Deposit ledger | — |
+
+**Quy tắc liên quan**
+- Outstanding = tổng số dư các hoá đơn Billed chưa trả hết (Billed, Partially paid, Overdue); không tính Draft và Void (BR-FEE-006; SRS Parents App §4 mục 7.1, tr.13).
+- Credit còn lại hiển thị riêng phần CDA (SRS Parents App §4 mục 7.4, tr.14).
+
+**Tiêu chí nghiệm thu dự kiến**
+
+| Given | When | Then |
+|---|---|---|
+| hôm nay 2026-11-08; Ethan có 3 hoá đơn Billed chưa trả hết: 300.00, 270.00 và 57.58; 1 hoá đơn Draft 460.00 | Centre Director mở tab Finance | Outstanding hiện SGD 627.58; Draft không tính vào |
+| Ethan còn credit 30.00, toàn bộ từ CDA | Centre Director mở tab Finance | Credit remaining hiện SGD 30.00, "of which CDA SGD 30.00" |
+
+**Câu hỏi khi làm:** có tính hoá đơn của Centre cũ (trẻ đã chuyển Centre) vào Outstanding không (liên quan Q-FIN-05).
+
+## BL-FIN-02 — Khối Cần chú ý (Needs attention)
+
+**Mô tả:** khối chỉ hiện khi có ít nhất một việc; mỗi việc một dòng ngắn kèm liên kết sang màn Billing.
+
+| Việc | Nội dung dòng | Nguồn dữ liệu | Căn cứ |
+|---|---|---|---|
+| Hoá đơn quá hạn | Số hoá đơn, số ngày quá hạn, số tiền, các ngày đã nhắc (15, 25) | Invoices; Outstanding & reminders | BR-FEE-003, 004, 006 |
+| GIRO trừ thất bại | Hoá đơn, ngày, lý do ngân hàng | GIRO collection runs | BR-FEE-033 |
+| Tài khoản GIRO bị Rejected | Loại tài khoản, lý do | GIRO accounts | SRS Fees & Payments §4 mục 4.1 |
+| Hoàn tiền Unsuccessful | Số tiền, lý do | Refunds | BR-FEE-044 |
+| Nguy cơ mất trợ cấp | Trẻ Singapore đã qua ngày kiểm tra (mặc định ngày 18) chưa có ngày đi học nào trong tháng | Daily Operations ("No attendance this month") | BR-OPS-025 |
+| Chênh lệch GSII chưa xử lý | Tháng, loại chênh lệch | GSII reconciliation | BR-FEE-048, 049 |
+
+**Vì sao cần:** gom các cảnh báo về một chỗ để trả lời nhanh "sao chưa trừ GIRO", "con có bị mất trợ cấp không" mà không phải đọc từng khối.
+
+**Tiêu chí nghiệm thu dự kiến**
+
+| Given | When | Then |
+|---|---|---|
+| hoá đơn học phí tháng 10 của Ethan còn 57.58, quá hạn 34 ngày, đã nhắc 15 và 25 Oct | Centre Director mở tab Finance | có dòng "34 days overdue · SGD 57.58 · reminded 15 Oct, 25 Oct" |
+| ngày 19/10/2026 Ava (công dân Singapore) chưa có ngày đi học nào trong tháng 10 | Centre Director mở tab Finance | có dòng nguy cơ mất trợ cấp tháng 10 |
+| đối soát GSII tháng 9 có chênh lệch trợ cấp của Ethan chưa được Centre quyết định | Centre Director mở tab Finance | có dòng chênh lệch GSII tháng 9; liên kết mở màn GSII |
+| không có việc nào ở trên | Centre Director mở tab Finance | không hiện khối Cần chú ý |
+
+**Câu hỏi khi làm:** thứ tự ưu tiên các dòng khi có nhiều việc (Parents App chỉ hiện 1 nhắc phí theo thứ tự GIRO failed → overdue, BR-PAR-010); có cần hiện khối này cho mọi vai trò được xem tab không.
